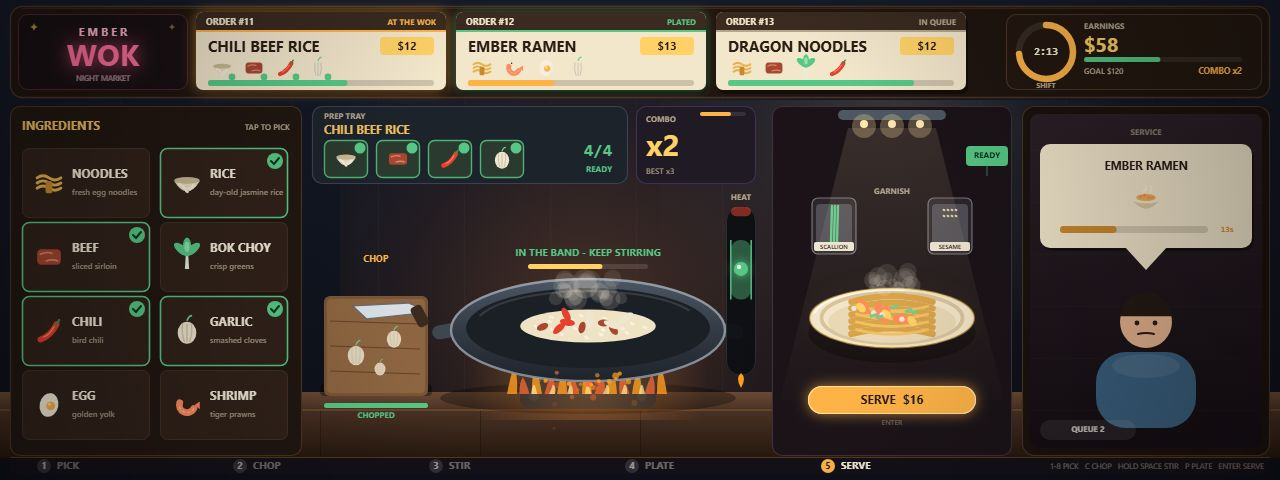
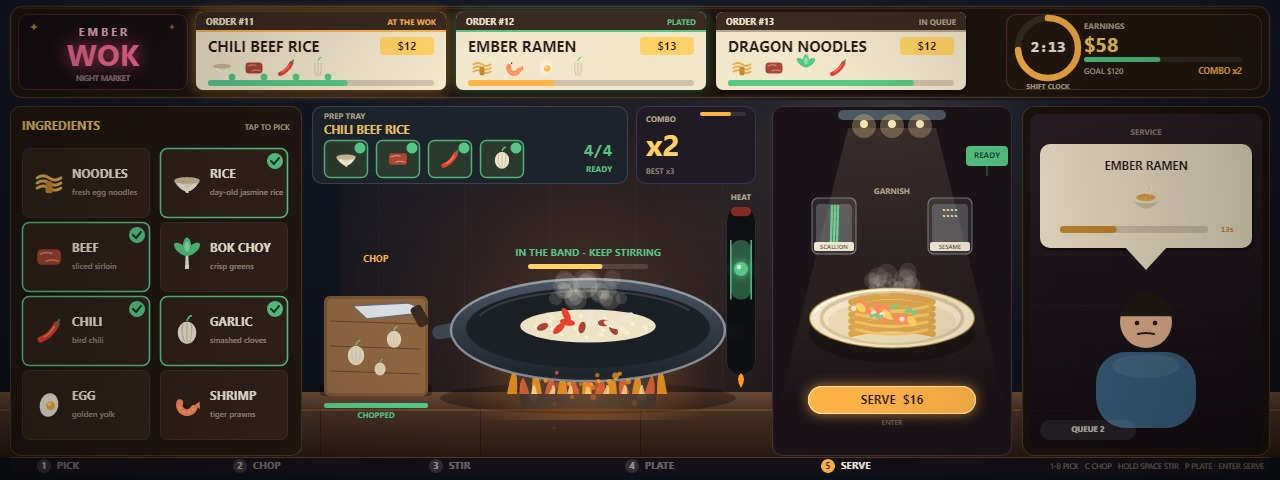
polish: draw a larger shift clock on the top bar
The clock dial grows from 27 to 30 px with 16 px digits under a SHIFT CLOCK
caption, so the shift timer reads at a glance in the judged screenshots; the
four staged screenshots are re-shot from the same scenes.

diff --git a/game/src/render.js b/game/src/render.js
@@ -238,9 +238,9 @@ export function createRenderer(canvas) {
     const left = Math.max(0, SHIFT.seconds - state.time);
     const fraction = Math.max(0, Math.min(1, left / SHIFT.seconds));
     const ringColor = state.rush ? P.chili : P.amber;
-    ring(ctx, panel.x + 40, panel.y + 38, 27, 6.5, fraction, ringColor, 'rgba(255,255,255,0.09)');
-    label(clockText(left), panel.x + 40, panel.y + 38, { size: 11, weight: 700, color: P.cream, align: 'center', baseline: 'middle', family: FONT.mono });
-    label('SHIFT', panel.x + 40, panel.y + 74, { size: 7, weight: 700, color: P.muted, align: 'center' });
+    ring(ctx, panel.x + 42, panel.y + 34, 30, 6.5, fraction, ringColor, 'rgba(255,255,255,0.09)');
+    label(clockText(left), panel.x + 42, panel.y + 34, { size: 16, weight: 700, color: P.cream, align: 'center', baseline: 'middle', family: FONT.mono });
+    label('SHIFT CLOCK', panel.x + 42, panel.y + 75, { size: 7, weight: 700, color: P.muted, align: 'center' });
 
     const x = panel.x + 78;
     label('EARNINGS', x, panel.y + 15, { size: 8, weight: 700, color: P.muted });
